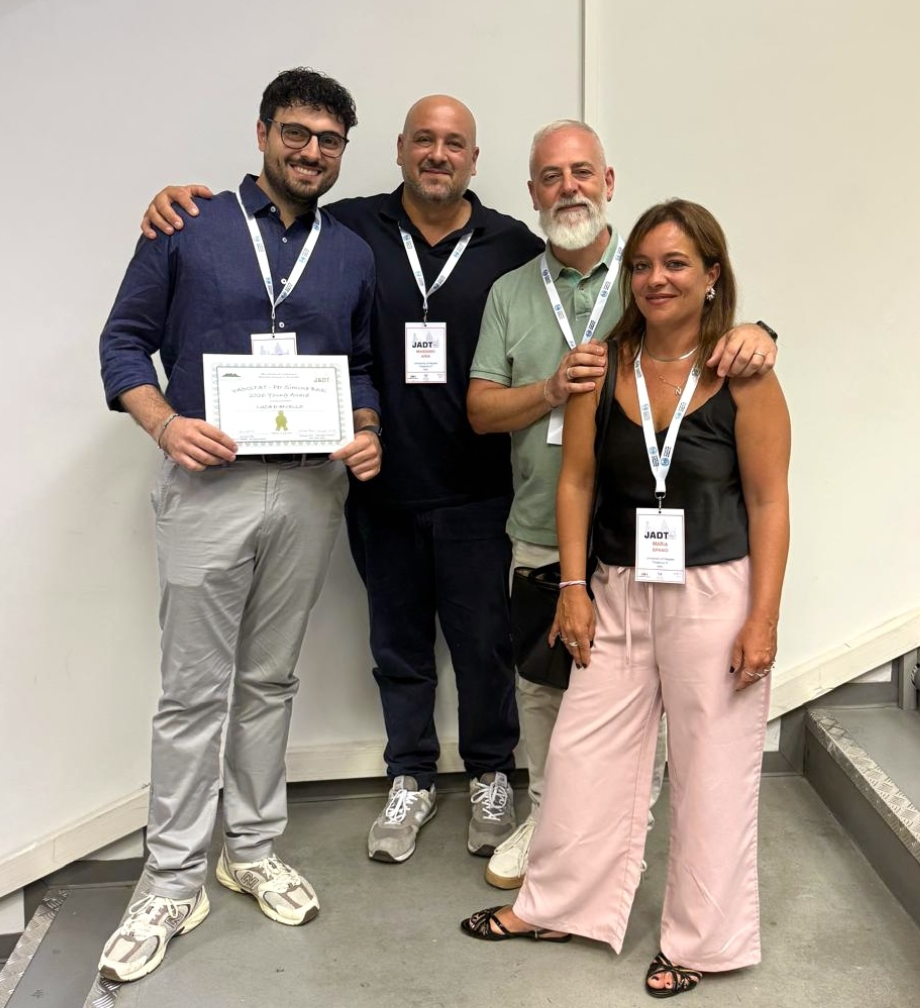
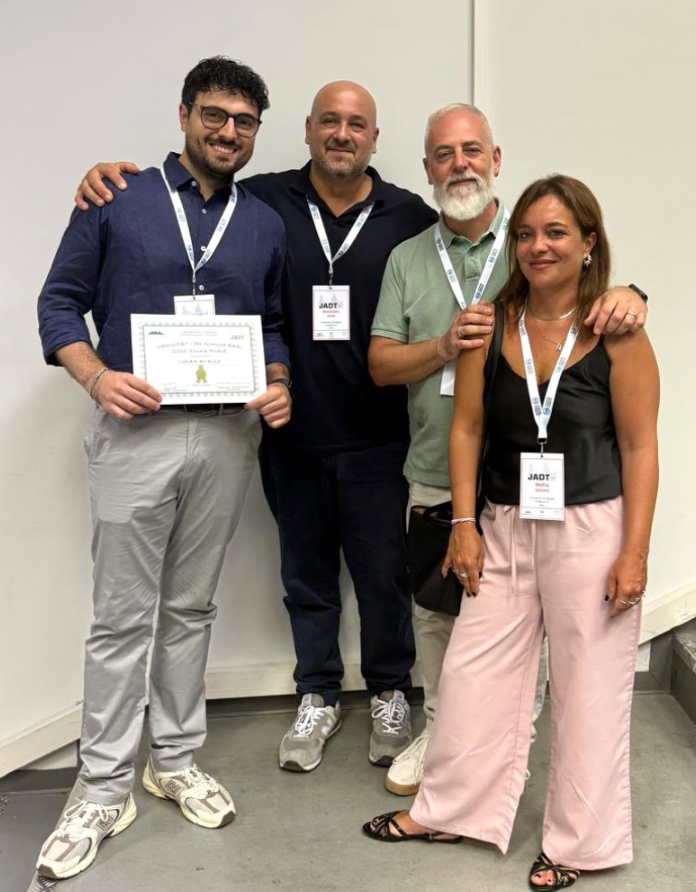
minor fix

diff --git a/blog.html b/blog.html
@@ -46,19 +46,6 @@
                 <article class="blog-post reveal-up">
                     <div class="blog-cover cover-doc">
                         <span class="blog-cover-tag tag-paper">Paper</span>
-                        <img src="assets/blog/tall-cover.png" alt="TALL paper in SoftwareX">
-                    </div>
-                    <div class="blog-post-body">
-                        <span class="blog-date"><i class="far fa-calendar"></i> July 2026 · New publication</span>
-                        <h2 class="blog-post-title"><a href="blog/tall/">TALL: Text Analysis for All, published in SoftwareX</a></h2>
-                        <p class="blog-excerpt">After more than a year of work and a warm reception on CRAN, our official paper on <strong>TALL</strong> is out in <em>SoftwareX</em>. The paper walks through the app's core workflow, a robust framework built to support a wide range of options and advanced text-analysis features, all without any coding.</p>
-                        <a href="blog/tall/" class="blog-readmore">Read more <i class="fas fa-arrow-right"></i></a>
-                    </div>
-                </article>
-
-                <article class="blog-post reveal-up">
-                    <div class="blog-cover cover-doc">
-                        <span class="blog-cover-tag tag-paper">Paper</span>
                         <img src="assets/blog/themescope-cover.png" alt="ThemeScope paper in Journal of Information Science">
                     </div>
                     <div class="blog-post-body">
@@ -92,6 +79,19 @@
                         <h2 class="blog-post-title"><a href="blog/biblioshiny-saas/">Biblioshiny and the SAAS Workflow</a></h2>
                         <p class="blog-excerpt">Published in <em>Journal of Informetrics</em>, this paper presents an integrated framework for transparent and reproducible science mapping through Biblioshiny, demonstrated by fully replicating an existing study step by step.</p>
                         <a href="blog/biblioshiny-saas/" class="blog-readmore">Read more <i class="fas fa-arrow-right"></i></a>
+                    </div>
+                </article>
+
+                <article class="blog-post reveal-up">
+                    <div class="blog-cover cover-doc">
+                        <span class="blog-cover-tag tag-paper">Paper</span>
+                        <img src="assets/blog/tall-cover.png" alt="TALL paper in SoftwareX">
+                    </div>
+                    <div class="blog-post-body">
+                        <span class="blog-date"><i class="far fa-calendar"></i> 6 March 2026 · New publication</span>
+                        <h2 class="blog-post-title"><a href="blog/tall/">TALL: Text Analysis for All, published in SoftwareX</a></h2>
+                        <p class="blog-excerpt">After more than a year of work and a warm reception on CRAN, our official paper on <strong>TALL</strong> is out in <em>SoftwareX</em>. The paper walks through the app's core workflow, a robust framework built to support a wide range of options and advanced text-analysis features, all without any coding.</p>
+                        <a href="blog/tall/" class="blog-readmore">Read more <i class="fas fa-arrow-right"></i></a>
                     </div>
                 </article>
 

diff --git a/index.html b/index.html
@@ -97,19 +97,6 @@
             <div class="news-viewport">
                 <div class="news-track" id="newsTrack">
 
-                    <a href="blog/tall/" class="news-card">
-                        <div class="news-cover cover-doc">
-                            <span class="news-cover-tag tag-paper">Paper</span>
-                            <img src="assets/blog/tall-cover.png" alt="TALL paper in SoftwareX">
-                        </div>
-                        <div class="news-body">
-                            <span class="news-date"><i class="far fa-calendar"></i> Jul 2026</span>
-                            <span class="news-title">TALL: Text Analysis for All, published in SoftwareX</span>
-                            <span class="news-excerpt">Our official paper on TALL, the no-code R-Shiny app for text analysis, is out in SoftwareX.</span>
-                            <span class="news-more">Read more <i class="fas fa-arrow-right"></i></span>
-                        </div>
-                    </a>
-
                     <a href="blog/themescope/" class="news-card">
                         <div class="news-cover cover-doc">
                             <span class="news-cover-tag tag-paper">Paper</span>
@@ -145,6 +132,19 @@
                             <span class="news-date"><i class="far fa-calendar"></i> 1 Jun 2026</span>
                             <span class="news-title">Biblioshiny &amp; the SAAS Workflow</span>
                             <span class="news-excerpt">A framework for transparent and reproducible science mapping, demonstrated by replicating a study, in Journal of Informetrics.</span>
+                            <span class="news-more">Read more <i class="fas fa-arrow-right"></i></span>
+                        </div>
+                    </a>
+
+                    <a href="blog/tall/" class="news-card">
+                        <div class="news-cover cover-doc">
+                            <span class="news-cover-tag tag-paper">Paper</span>
+                            <img src="assets/blog/tall-cover.png" alt="TALL paper in SoftwareX">
+                        </div>
+                        <div class="news-body">
+                            <span class="news-date"><i class="far fa-calendar"></i> 6 Mar 2026</span>
+                            <span class="news-title">TALL: Text Analysis for All, published in SoftwareX</span>
+                            <span class="news-excerpt">Our official paper on TALL, the no-code R-Shiny app for text analysis, is out in SoftwareX.</span>
                             <span class="news-more">Read more <i class="fas fa-arrow-right"></i></span>
                         </div>
                     </a>

diff --git a/blog/tall/index.html b/blog/tall/index.html
@@ -45,7 +45,7 @@
                 <a href="../../blog.html" class="back-to-blog"><i class="fas fa-arrow-left"></i> Back to Blog</a>
 
                 <div class="article-meta">
-                    <span><i class="far fa-calendar"></i> July 2026</span>
+                    <span><i class="far fa-calendar"></i> 6 March 2026</span>
                     <span><i class="fas fa-book-open"></i> SoftwareX · Elsevier</span>
                     <span><i class="fas fa-users"></i> Aria, M., Spano, M., D'Aniello, L., Cuccurullo, C., Misuraca, M.</span>
                 </div>
